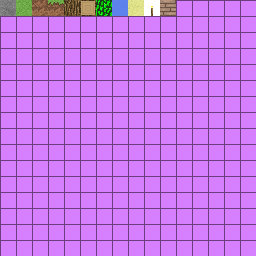
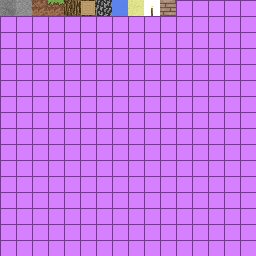
implement biome color

Changed region(s): [[0.375, 0.0, 0.4375, 0.0625], [0.0625, 0.0, 0.125, 0.0625]]

diff --git a/src/js/net/minecraft/client/render/BlockRenderer.js b/src/js/net/minecraft/client/render/BlockRenderer.js
@@ -60,79 +60,85 @@ export default class BlockRenderer {
         minV = 1 - minV;
         maxV = 1 - maxV;
 
+        // Get color multiplier
+        let color = block.getColor(world, x, y, z, face);
+        let red = (color >> 16 & 255) / 255.0;
+        let green = (color >> 8 & 255) / 255.0;
+        let blue = (color & 255) / 255.0;
+
         // Classic lightning
         if (!ambientOcclusion) {
             let level = world === null ? 15 : world.getTotalLightAt(minX + face.x, minY + face.y, minZ + face.z);
             let brightness = 0.9 / 15.0 * level + 0.1;
-            let color = brightness * face.getShading();
-            this.tessellator.setColor(color, color, color);
+            let shade = brightness * face.getShading();
+            this.tessellator.setColor(red * shade, green * shade, blue * shade);
         }
 
         // Set opacity of block (Using alpha channel in texture right now)
         // this.tessellator.setAlpha(1 - block.getTransparency());
 
         // Add face to tessellator
-        this.addFace(world, face, ambientOcclusion, minX, minY, minZ, maxX, maxY, maxZ, minU, minV, maxU, maxV);
+        this.addFace(world, face, ambientOcclusion, minX, minY, minZ, maxX, maxY, maxZ, minU, minV, maxU, maxV, red, green, blue);
     }
 
-    addFace(world, face, ambientOcclusion, minX, minY, minZ, maxX, maxY, maxZ, minU, minV, maxU, maxV) {
+    addFace(world, face, ambientOcclusion, minX, minY, minZ, maxX, maxY, maxZ, minU, minV, maxU, maxV, red = 1, green = 1, blue = 1) {
         if (face === EnumBlockFace.BOTTOM) {
-            this.addBlockCorner(world, face, ambientOcclusion, maxX, minY, maxZ, maxU, maxV);
-            this.addBlockCorner(world, face, ambientOcclusion, maxX, minY, minZ, maxU, minV);
-            this.addBlockCorner(world, face, ambientOcclusion, minX, minY, minZ, minU, minV);
-            this.addBlockCorner(world, face, ambientOcclusion, minX, minY, maxZ, minU, maxV);
+            this.addBlockCorner(world, face, ambientOcclusion, maxX, minY, maxZ, maxU, maxV, red, green, blue);
+            this.addBlockCorner(world, face, ambientOcclusion, maxX, minY, minZ, maxU, minV, red, green, blue);
+            this.addBlockCorner(world, face, ambientOcclusion, minX, minY, minZ, minU, minV, red, green, blue);
+            this.addBlockCorner(world, face, ambientOcclusion, minX, minY, maxZ, minU, maxV, red, green, blue);
         }
         if (face === EnumBlockFace.TOP) {
-            this.addBlockCorner(world, face, ambientOcclusion, minX, maxY, maxZ, minU, maxV);
-            this.addBlockCorner(world, face, ambientOcclusion, minX, maxY, minZ, minU, minV);
-            this.addBlockCorner(world, face, ambientOcclusion, maxX, maxY, minZ, maxU, minV);
-            this.addBlockCorner(world, face, ambientOcclusion, maxX, maxY, maxZ, maxU, maxV);
+            this.addBlockCorner(world, face, ambientOcclusion, minX, maxY, maxZ, minU, maxV, red, green, blue);
+            this.addBlockCorner(world, face, ambientOcclusion, minX, maxY, minZ, minU, minV, red, green, blue);
+            this.addBlockCorner(world, face, ambientOcclusion, maxX, maxY, minZ, maxU, minV, red, green, blue);
+            this.addBlockCorner(world, face, ambientOcclusion, maxX, maxY, maxZ, maxU, maxV, red, green, blue);
         }
         if (face === EnumBlockFace.NORTH) {
-            this.addBlockCorner(world, face, ambientOcclusion, minX, maxY, minZ, minU, minV);
-            this.addBlockCorner(world, face, ambientOcclusion, minX, minY, minZ, minU, maxV);
-            this.addBlockCorner(world, face, ambientOcclusion, maxX, minY, minZ, maxU, maxV);
-            this.addBlockCorner(world, face, ambientOcclusion, maxX, maxY, minZ, maxU, minV);
+            this.addBlockCorner(world, face, ambientOcclusion, minX, maxY, minZ, minU, minV, red, green, blue);
+            this.addBlockCorner(world, face, ambientOcclusion, minX, minY, minZ, minU, maxV, red, green, blue);
+            this.addBlockCorner(world, face, ambientOcclusion, maxX, minY, minZ, maxU, maxV, red, green, blue);
+            this.addBlockCorner(world, face, ambientOcclusion, maxX, maxY, minZ, maxU, minV, red, green, blue);
         }
         if (face === EnumBlockFace.SOUTH) {
-            this.addBlockCorner(world, face, ambientOcclusion, minX, maxY, maxZ, maxU, minV);
-            this.addBlockCorner(world, face, ambientOcclusion, maxX, maxY, maxZ, minU, minV);
-            this.addBlockCorner(world, face, ambientOcclusion, maxX, minY, maxZ, minU, maxV);
-            this.addBlockCorner(world, face, ambientOcclusion, minX, minY, maxZ, maxU, maxV);
+            this.addBlockCorner(world, face, ambientOcclusion, minX, maxY, maxZ, maxU, minV, red, green, blue);
+            this.addBlockCorner(world, face, ambientOcclusion, maxX, maxY, maxZ, minU, minV, red, green, blue);
+            this.addBlockCorner(world, face, ambientOcclusion, maxX, minY, maxZ, minU, maxV, red, green, blue);
+            this.addBlockCorner(world, face, ambientOcclusion, minX, minY, maxZ, maxU, maxV, red, green, blue);
         }
         if (face === EnumBlockFace.WEST) {
-            this.addBlockCorner(world, face, ambientOcclusion, minX, minY, maxZ, minU, maxV);
-            this.addBlockCorner(world, face, ambientOcclusion, minX, minY, minZ, maxU, maxV);
-            this.addBlockCorner(world, face, ambientOcclusion, minX, maxY, minZ, maxU, minV);
-            this.addBlockCorner(world, face, ambientOcclusion, minX, maxY, maxZ, minU, minV);
+            this.addBlockCorner(world, face, ambientOcclusion, minX, minY, maxZ, minU, maxV, red, green, blue);
+            this.addBlockCorner(world, face, ambientOcclusion, minX, minY, minZ, maxU, maxV, red, green, blue);
+            this.addBlockCorner(world, face, ambientOcclusion, minX, maxY, minZ, maxU, minV, red, green, blue);
+            this.addBlockCorner(world, face, ambientOcclusion, minX, maxY, maxZ, minU, minV, red, green, blue);
         }
         if (face === EnumBlockFace.EAST) {
-            this.addBlockCorner(world, face, ambientOcclusion, maxX, maxY, maxZ, maxU, minV);
-            this.addBlockCorner(world, face, ambientOcclusion, maxX, maxY, minZ, minU, minV);
-            this.addBlockCorner(world, face, ambientOcclusion, maxX, minY, minZ, minU, maxV);
-            this.addBlockCorner(world, face, ambientOcclusion, maxX, minY, maxZ, maxU, maxV);
+            this.addBlockCorner(world, face, ambientOcclusion, maxX, maxY, maxZ, maxU, minV, red, green, blue);
+            this.addBlockCorner(world, face, ambientOcclusion, maxX, maxY, minZ, minU, minV, red, green, blue);
+            this.addBlockCorner(world, face, ambientOcclusion, maxX, minY, minZ, minU, maxV, red, green, blue);
+            this.addBlockCorner(world, face, ambientOcclusion, maxX, minY, maxZ, maxU, maxV, red, green, blue);
         }
     }
 
-    addBlockCorner(world, face, ambientOcclusion, x, y, z, u, v) {
+    addBlockCorner(world, face, ambientOcclusion, x, y, z, u, v, red, green, blue) {
         // Smooth lightning
         if (ambientOcclusion) {
-            this.setAverageColor(world, face, x, y, z);
+            this.setAverageBrightness(world, face, x, y, z, red, green, blue);
         }
 
         this.tessellator.addVertexWithUV(x, y, z, u, v);
     }
 
-    setAverageColor(world, face, x, y, z) {
+    setAverageBrightness(world, face, x, y, z, red = 1, green = 1, blue = 1) {
         // Get the average light level of all 4 blocks at this corner
         let lightLevelAtThisCorner = this.getAverageLightLevelAt(world, x, y, z);
 
         // Convert light level from [0 - 15] to [0.1 - 1.0]
         let brightness = 0.9 / 15.0 * lightLevelAtThisCorner + 0.1;
-        let color = brightness * face.getShading();
+        let shading = brightness * face.getShading();
 
-        // Set color with shading
-        this.tessellator.setColorRGB(color, color, color);
+        // Transform brightness of edge
+        this.tessellator.setColor(red * shading, green * shading, blue * shading);
     }
 
     getAverageLightLevelAt(world, x, y, z) {

diff --git a/src/js/net/minecraft/client/render/GrassColorizer.js b/src/js/net/minecraft/client/render/GrassColorizer.js
@@ -1,0 +1,35 @@
+export default class GrassColorizer {
+
+    constructor(minecraft) {
+        this.texture = minecraft.resources["misc/grasscolor.png"];
+
+        this.bitMap = this.createBitMap(this.texture);
+    }
+
+    getColor(temperature, humidity) {
+        humidity *= temperature;
+
+        let x = Math.floor((1.0 - temperature) * 255);
+        let y = Math.floor((1.0 - humidity) * 255);
+
+        let index = (x + y * this.texture.width) * 4
+        if (index >= this.bitMap.length) {
+            return -65281;
+        }
+
+        let red = this.bitMap[index];
+        let green = this.bitMap[index + 1];
+        let blue = this.bitMap[index + 2];
+
+        return red << 16 | green << 8 | blue;
+    }
+
+    createBitMap(img) {
+        let canvas = document.createElement('canvas');
+        canvas.width = img.width;
+        canvas.height = img.height;
+        canvas.getContext('2d').drawImage(img, 0, 0, img.width, img.height);
+        return canvas.getContext('2d').getImageData(0, 0, img.width, img.height).data;
+    }
+
+}

diff --git a/src/js/net/minecraft/client/world/block/type/BlockGrass.js b/src/js/net/minecraft/client/world/block/type/BlockGrass.js
@@ -10,6 +10,22 @@ export default class BlockGrass extends Block {
         this.sound = Block.sounds.grass;
     }
 
+    getColor(world, x, y, z, face) {
+        // Only top face has a biome color
+        if (face !== EnumBlockFace.TOP) {
+            return 0xFFFFFF;
+        }
+
+        // Inventory items have a default color
+        if (world === null) {
+            return 0x7cbd6b;
+        }
+
+        let temperature = world.getTemperature(x, y, z);
+        let humidity = world.getHumidity(x, y, z);
+        return world.minecraft.grassColorizer.getColor(temperature, humidity);
+    }
+
     getTextureForFace(face) {
         switch (face) {
             case EnumBlockFace.TOP:

diff --git a/src/start.js b/src/start.js
@@ -2,21 +2,6 @@ import Minecraft from './js/net/minecraft/client/Minecraft.js';
 
 let resources = [];
 
-// Browser test function
-function isES6() {
-    try {
-        Function("() => {};");
-        return true;
-    } catch (exception) {
-        return false;
-    }
-}
-
-// Test for browser support
-if (!isES6()) {
-    alert("Your browser isn't supported! Please use another one.");
-}
-
 // Script loader
 function loadScripts(scripts) {
     let total = scripts.length;
@@ -71,6 +56,7 @@ function updatePreStatus(message) {
 
 // Load textures
 loadTexture([
+    "misc/grasscolor.png",
     "gui/font.png",
     "gui/gui.png",
     "gui/background.png",

diff --git a/src/js/net/minecraft/client/Minecraft.js b/src/js/net/minecraft/client/Minecraft.js
@@ -13,6 +13,7 @@ import Block from "./world/block/Block.js";
 import BoundingBox from "../util/BoundingBox.js";
 import {BlockRegistry} from "./world/block/BlockRegistry.js";
 import FontRenderer from "./render/gui/FontRenderer.js";
+import GrassColorizer from "./render/GrassColorizer.js";
 
 export default class Minecraft {
 
@@ -58,6 +59,9 @@ export default class Minecraft {
 
         // Create font renderer
         this.fontRenderer = new FontRenderer(this);
+
+        // Grass colorizer
+        this.grassColorizer = new GrassColorizer(this);
 
         // Update window size
         this.window.updateWindowSize();

diff --git a/src/js/net/minecraft/client/gui/widgets/GuiKeyButton.js b/src/js/net/minecraft/client/gui/widgets/GuiKeyButton.js
@@ -4,6 +4,8 @@ export default class GuiKeyButton extends GuiButton {
 
     constructor(name, key, x, y, width, height, callback) {
         super(name + ": " + key, x, y, width, height, _ => callback(this.key));
+
+        this.name = name;
         this.listening = false;
     }
 
@@ -14,7 +16,7 @@ export default class GuiKeyButton extends GuiButton {
 
     keyTyped(key) {
         if (this.listening) {
-            this.string = name + ": " + key;
+            this.string = this.name + ": " + key;
             this.listening = false;
             this.key = key;
             this.callback();

diff --git a/src/js/net/minecraft/client/world/block/type/BlockLeave.js b/src/js/net/minecraft/client/world/block/type/BlockLeave.js
@@ -9,6 +9,17 @@ export default class BlockLeave extends Block {
         this.sound = Block.sounds.grass;
     }
 
+    getColor(world, x, y, z, face) {
+        // Inventory items have a default color
+        if (world === null) {
+            return 0 << 16 | 255 << 8 | 0;
+        }
+
+        let temperature = world.getTemperature(x, y, z);
+        let humidity = world.getHumidity(x, y, z);
+        return world.minecraft.grassColorizer.getColor(temperature, humidity);
+    }
+
     getOpacity() {
         return 0.3;
     }

diff --git a/src/js/net/minecraft/client/world/World.js b/src/js/net/minecraft/client/world/World.js
@@ -485,8 +485,12 @@ export default class World {
         return MathHelper.calculateCelestialAngle(this.time, partialTicks);
     }
 
-    getTemperature(x, z) {
-        return 1.24;
+    getTemperature(x, y, z) {
+        return 0.75; // TODO implement biomes
+    }
+
+    getHumidity(x, y, z) {
+        return 0.85; // TODO implement biomes
     }
 
     getSkyColor(x, z, partialTicks) {

diff --git a/src/js/net/minecraft/client/render/Tessellator.js b/src/js/net/minecraft/client/render/Tessellator.js
@@ -36,6 +36,13 @@ export default class Tessellator {
         this.setAlpha(alpha);
     }
 
+    multiplyColor(red, green, blue, alpha = 1) {
+        this.red *= red;
+        this.green *= green;
+        this.blue *= blue;
+        this.alpha *= alpha;
+    }
+
     setAlpha(alpha) {
         this.alpha = alpha;
     }

diff --git a/src/js/net/minecraft/client/world/block/Block.js b/src/js/net/minecraft/client/world/block/Block.js
@@ -48,6 +48,10 @@ export default class Block {
         return typeId === 0 || !Block.getById(typeId).isSolid();
     }
 
+    getColor(world, x, y, z, face) {
+        return 0xffffff;
+    }
+
     getLightValue() {
         return 0;
     }
